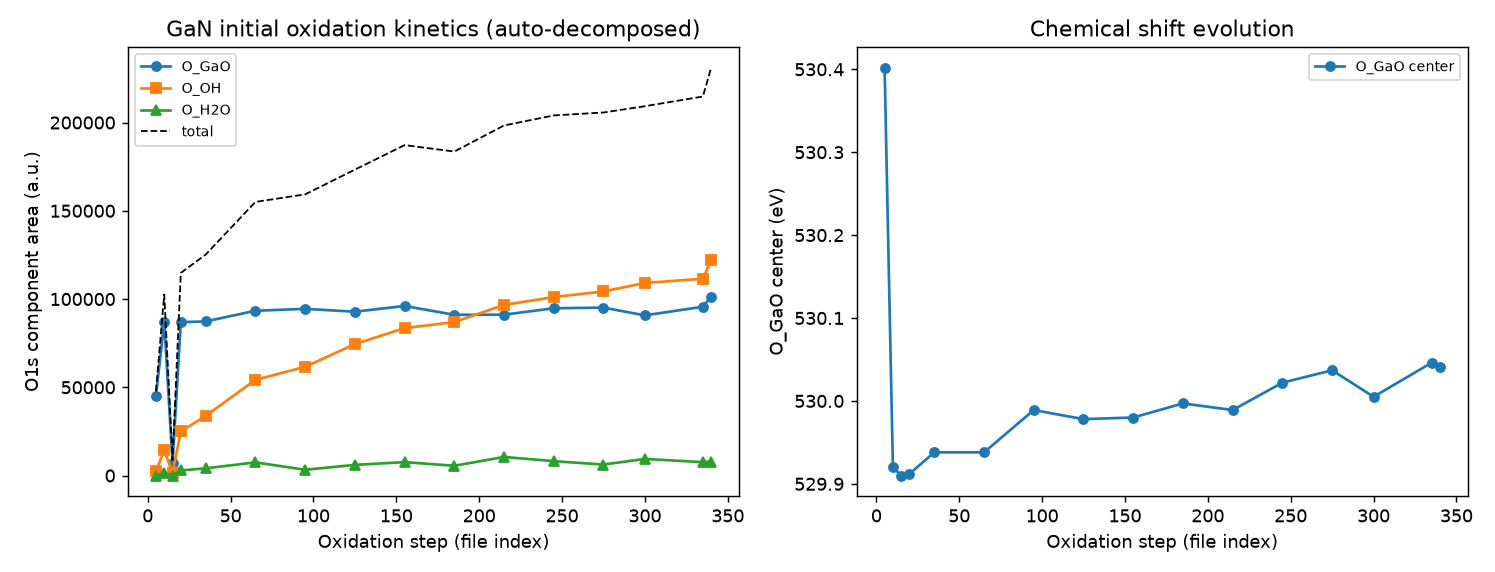
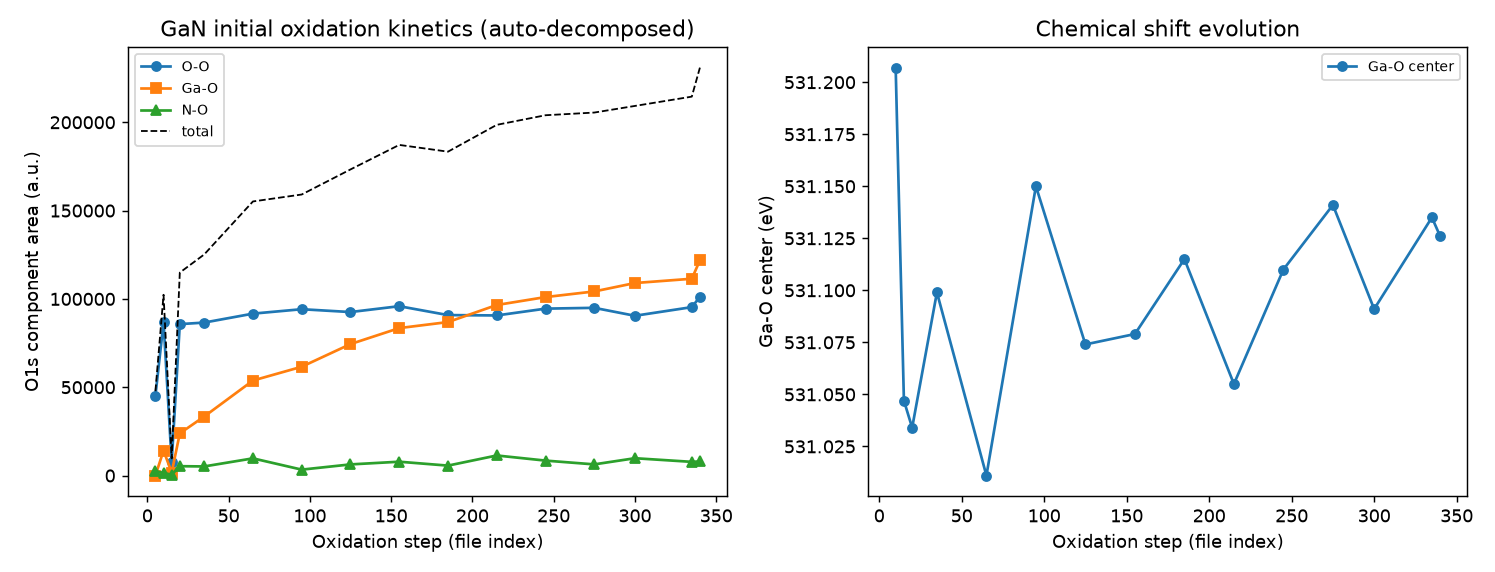
GaN O1s帰属をSumiya et al. JPCC 2020準拠に修正（O-O/Ga-O/N-O）
- ポスター(原田ら, NIMS先端計測シンポ2022 P2-9)とSumiya JPCC 124(2020)25282
  のDFMD裏付け帰属に合わせ、O-O(分子性吸着~530)/Ga-O(解離性~531)/N-O(~532)へ
- 初期スペクトルは「O-Oのみ、Ga-O未出現」となり分子性→解離性吸着の
  遷移描像を無人再現（従来の帰属での初期揺れも解消）
- data2/README.md: 測定クレジット(Sumiya et al.)・ビーム条件・外れスキャン注記
- 回帰テストを新帰属に更新、図を差し替え。48テスト通過

diff --git a/tests/test_benchmark_gan.py b/tests/test_benchmark_gan.py
@@ -1,4 +1,8 @@
-"""GaN初期酸化系列（BL23SU, 公開データ）の回帰テスト."""
+"""GaN初期酸化系列（BL23SU, 公開データ）の回帰テスト.
+
+化学状態の帰属は Sumiya et al., J. Phys. Chem. C 124 (2020) 25282 に準拠:
+O-O（分子性吸着, ~530 eV）/ Ga-O（解離性吸着, ~531 eV）/ N-O（~532 eV）。
+"""
 from pathlib import Path
 
 import pytest
@@ -16,31 +20,36 @@ def _pool() -> list[Component]:
     kw = dict(fwhm_bounds=(0.9, 2.2), eta_bounds=(0.0, 0.6),
               fwhm_group="O1s", eta_group="O1s")
     return [
-        Component(name="O_GaO", center=530.6, center_sigma=0.5, **kw),
-        Component(name="O_OH", center=532.0, center_sigma=0.6, **kw),
-        Component(name="O_H2O", center=533.3, center_sigma=0.6, **kw),
+        Component(name="O-O", center=530.0, center_sigma=0.5, **kw),
+        Component(name="Ga-O", center=531.0, center_sigma=0.5, **kw),
+        Component(name="N-O", center=532.2, center_sigma=0.6, **kw),
     ]
 
 
 @pytest.mark.slow
 def test_gan_final_spectrum_three_states() -> None:
-    """最終スペクトル(step340): 3状態分解、Ga-O中心が530 eV近傍."""
+    """最終スペクトル(step340): 3状態分解、Ga-Oが最大成分."""
     spec = load_spectrum(DATA2 / "1804100340_dsp.csv", hv=HV).crop(*WINDOW)
     sel = select_model(spec, subset_candidates(_pool(), min_size=1),
                        background="auto")
     table = {r["Component"]: r for r in sel.best.peak_table()}
     assert len(table) == 3
-    assert 529.7 <= table["O_GaO"]["Center_eV"] <= 530.6
-    assert 530.8 <= table["O_OH"]["Center_eV"] <= 531.8
+    assert 529.7 <= table["O-O"]["Center_eV"] <= 530.4
+    assert 530.7 <= table["Ga-O"]["Center_eV"] <= 531.5
+    assert table["Ga-O"]["Area"] > table["O-O"]["Area"]  # 後期は解離吸着が優位
     assert sel.best.reduced_chi2 < 1.5
 
 
 @pytest.mark.slow
-def test_gan_initial_spectrum_gao_dominant() -> None:
-    """初期スペクトル(step5): Ga-O主体（OHはまだ小さい）."""
+def test_gan_initial_spectrum_molecular_dominant() -> None:
+    """初期スペクトル(step5): 分子性吸着O-Oが主体、Ga-Oは未出現.
+
+    Sumiya et al.の「分子性吸着→解離性吸着」の遷移描像と整合すること。
+    """
     spec = load_spectrum(DATA2 / "1804100005_dsp.csv", hv=HV).crop(*WINDOW)
     sel = select_model(spec, subset_candidates(_pool(), min_size=1),
                        background="auto")
     table = {r["Component"]: r for r in sel.best.peak_table()}
-    assert "O_GaO" in table
-    assert table["O_GaO"]["Area_pct"] > 60.0
+    assert "O-O" in table
+    assert table["O-O"]["Area_pct"] > 80.0
+    assert "Ga-O" not in table  # 解離性吸着はまだBIC検出されない

diff --git a/benchmarks/casestudy_gan_oxidation.py b/benchmarks/casestudy_gan_oxidation.py
@@ -4,10 +4,15 @@
 各スペクトルを独立に「化学状態プール×背景」のBIC自動選択で分解し、
 成分面積の時間発展（酸化カイネティクス）を無人で抽出する。
 
-O1s化学状態プール（GaN酸化の文献値ベース）:
-- O_GaO : Ga-O結合（Ga2O3様）  ~530.6 eV
-- O_OH  : 水酸基/欠陥酸素      ~532.0 eV
-- O_H2O : 吸着水/有機          ~533.3 eV
+O1s化学状態プール（Sumiya et al., J. Phys. Chem. C 124 (2020) 25282 の
+帰属に準拠。DFMD計算による裏付けあり）:
+- O-O  : 分子性吸着酸素   ~530 eV
+- Ga-O : 解離性吸着(Ga-O) ~531 eV
+- N-O  : N-O結合          ~532 eV
+
+実験条件（同文献・原田ら先端計測シンポジウム2022 P2-9より）:
+O2/Heビーム照射（並進エネルギー2.26 eV, 200°C）中にO1sを逐次測定。
+hv=730 eV, パスエネルギー5.0 eV（分解能250 meV）。
 
 実行: python -X utf8 benchmarks/casestudy_gan_oxidation.py [出力ディレクトリ]
 """
@@ -38,9 +43,9 @@ def pool() -> list[Component]:
     kw = dict(fwhm_bounds=FWHM_B, eta_bounds=ETA_B, fwhm_group="O1s",
               eta_group="O1s")
     return [
-        Component(name="O_GaO", center=530.6, center_sigma=0.5, **kw),
-        Component(name="O_OH", center=532.0, center_sigma=0.6, **kw),
-        Component(name="O_H2O", center=533.3, center_sigma=0.6, **kw),
+        Component(name="O-O", center=530.0, center_sigma=0.5, **kw),
+        Component(name="Ga-O", center=531.0, center_sigma=0.5, **kw),
+        Component(name="N-O", center=532.2, center_sigma=0.6, **kw),
     ]
 
 
@@ -70,7 +75,7 @@ def main(out_dir: Path) -> None:
             chi2r=round(best.reduced_chi2, 3),
             P_n=";".join(f"{k}:{v:.2f}" for k, v in nprob.items()),
         )
-        for name in ("O_GaO", "O_OH", "O_H2O"):
+        for name in ("O-O", "Ga-O", "N-O"):
             r = table.get(name)
             row[f"{name}_cen"] = r["Center_eV"] if r else np.nan
             row[f"{name}_area"] = r["Area"] if r else 0.0
@@ -85,19 +90,19 @@ def main(out_dir: Path) -> None:
 
     # カイネティクス図
     fig, axes = plt.subplots(1, 2, figsize=(11.5, 4.4))
-    for name, mk in (("O_GaO", "o"), ("O_OH", "s"), ("O_H2O", "^")):
+    for name, mk in (("O-O", "o"), ("Ga-O", "s"), ("N-O", "^")):
         axes[0].plot(df["step"], df[f"{name}_area"], mk + "-", ms=5, label=name)
     axes[0].plot(df["step"],
-                 df[[f"{n}_area" for n in ("O_GaO", "O_OH", "O_H2O")]].sum(axis=1),
+                 df[[f"{n}_area" for n in ("O-O", "Ga-O", "N-O")]].sum(axis=1),
                  "k--", lw=1, label="total")
     axes[0].set_xlabel("Oxidation step (file index)")
     axes[0].set_ylabel("O1s component area (a.u.)")
     axes[0].set_title("GaN initial oxidation kinetics (auto-decomposed)")
     axes[0].legend(fontsize=8)
 
-    axes[1].plot(df["step"], df["O_GaO_cen"], "o-", ms=5, label="O_GaO center")
+    axes[1].plot(df["step"], df["Ga-O_cen"], "o-", ms=5, label="Ga-O center")
     axes[1].set_xlabel("Oxidation step (file index)")
-    axes[1].set_ylabel("O_GaO center (eV)")
+    axes[1].set_ylabel("Ga-O center (eV)")
     axes[1].set_title("Chemical shift evolution")
     axes[1].legend(fontsize=8)
     fig.tight_layout()

diff --git a/data2/README.md b/data2/README.md
@@ -1,20 +1,28 @@
 # GaN initial oxidation series (O 1s, Spring-8 BL23SU)
 
-Synchrotron XPS series tracking the initial oxidation of a c-plane GaN
-surface, measured at Spring-8 beamline BL23SU with photon energy
-**hv = 730 eV**.
+Synchrotron XPS series tracking the initial oxidation of a Ga-polar (+c)
+GaN surface under a supersonic O2/He beam (translational energy 2.26 eV,
+substrate at 200 °C), measured at Spring-8 beamline BL23SU with photon
+energy **hv = 730 eV** (pass energy 5.0 eV, resolution ≈250 meV).
+Measurement by M. Sumiya and co-workers (NIMS / JAEA BL23SU); see
+M. Sumiya et al., *J. Phys. Chem. C* **124** (2020) 25282 for the
+experiment and the chemical-state assignment
+(O-O ≈530 eV molecular adsorption / Ga-O ≈531 eV dissociative /
+N-O ≈532 eV), supported by DFMD calculations.
 
-- Files: `<run><step>_dsp.csv` — the trailing 4 digits are the oxidation
-  step index (5 … 340).
+- Files: `<yymmdd><nnnn>_dsp.csv` — O 1s scans recorded sequentially
+  during O2 exposure (≈30 s per spectrum in the steady phase).
 - Format: headerless CSV, two columns: **kinetic energy (eV)**, intensity.
   Convert to binding energy as BE = 730 − KE, e.g.
   `load_spectrum(path, hv=730.0)` or CLI `--hv 730`.
 - Region: KE 192–205 eV ⇔ BE 525–538 eV (O 1s), 0.1 eV steps.
+- Note: scan `...0015` is an anomalous low-intensity acquisition
+  (~1/10 counts) and is flagged as an outlier in the case study.
 
 This dataset is openly available via the NIMS Materials Data Repository
 (MDR): **https://doi.org/10.48505/nims.3848**
-<!-- TODO: add measurement credit (measurer / beamline staff) before
-journal submission -->
+
+Analysis case study: `benchmarks/casestudy_gan_oxidation.py`.
 
 Analysis case study: `benchmarks/casestudy_gan_oxidation.py`
 (automatic chemical-state decomposition and oxidation kinetics extraction).